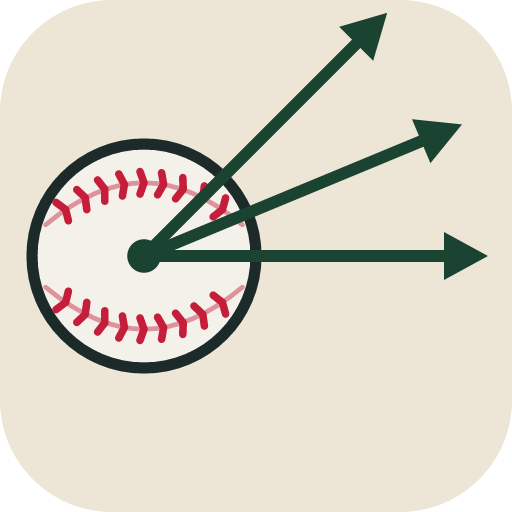
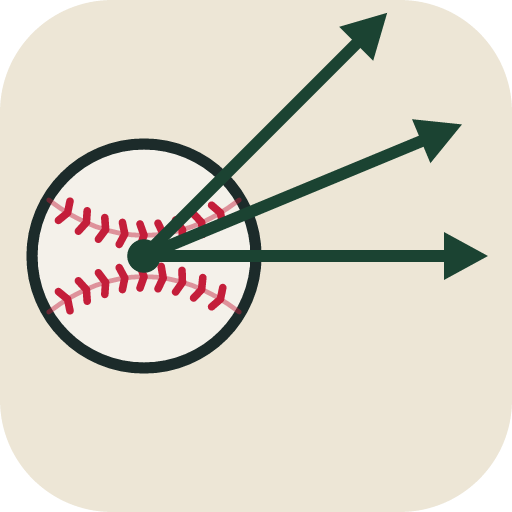
Update SVG and TypeScript files for WtbbMark branding
- Refactored SVG paths in icon.svg and WtbbMark.tsx to improve visual consistency and maintainability.
- Updated the baseball seam definitions in generate-wtbb-logo.mjs for better accuracy in seam curvature.
- Modified binary assets for wtbb-mark images to ensure they reflect the latest design changes.

These updates enhance the branding visuals and improve the overall quality of the logo assets in the application.

Changed region(s): [[0.0938, 0.3125, 0.4688, 0.6875]]

diff --git a/web/components/brand/WtbbMark.tsx b/web/components/brand/WtbbMark.tsx
@@ -23,26 +23,26 @@ export function WtbbMark({
       <title>{title}</title>
       {withPlate ? <rect width="128" height="128" rx="28" fill="#ede6d6" /> : null}
       <circle cx="36" cy="64" r="28" fill="#f4f1ea" stroke="currentColor" strokeWidth="2.8"/>
-  <path fill="none" stroke="#c41e3a" strokeWidth="1.2" strokeLinecap="round" opacity="0.45" d="M11.4 56.2C28.2 42.2, 43.8 42.2, 60.6 56.2"/>
-  <path fill="none" stroke="#c41e3a" strokeWidth="1.9" strokeLinecap="round" strokeLinejoin="round" d="M14.0 50.6L16.4 52.4L17.1 55.2"/>
-  <path fill="none" stroke="#c41e3a" strokeWidth="1.9" strokeLinecap="round" strokeLinejoin="round" d="M19.2 47.4L21.3 49.4L21.7 52.4"/>
-  <path fill="none" stroke="#c41e3a" strokeWidth="1.9" strokeLinecap="round" strokeLinejoin="round" d="M24.4 45.0L26.2 47.3L26.2 50.3"/>
-  <path fill="none" stroke="#c41e3a" strokeWidth="1.9" strokeLinecap="round" strokeLinejoin="round" d="M29.7 43.5L31.1 46.1L30.6 49.0"/>
-  <path fill="none" stroke="#c41e3a" strokeWidth="1.9" strokeLinecap="round" strokeLinejoin="round" d="M35.0 42.9L36.0 45.7L35.0 48.5"/>
-  <path fill="none" stroke="#c41e3a" strokeWidth="1.9" strokeLinecap="round" strokeLinejoin="round" d="M40.4 43.2L40.9 46.1L39.4 48.7"/>
-  <path fill="none" stroke="#c41e3a" strokeWidth="1.9" strokeLinecap="round" strokeLinejoin="round" d="M45.7 44.4L45.8 47.3L43.9 49.7"/>
-  <path fill="none" stroke="#c41e3a" strokeWidth="1.9" strokeLinecap="round" strokeLinejoin="round" d="M51.1 46.5L50.7 49.4L48.5 51.5"/>
-  <path fill="none" stroke="#c41e3a" strokeWidth="1.9" strokeLinecap="round" strokeLinejoin="round" d="M56.4 49.5L55.6 52.4L53.3 54.2"/>
-  <path fill="none" stroke="#c41e3a" strokeWidth="1.2" strokeLinecap="round" opacity="0.45" d="M11.4 71.8C28.2 85.8, 43.8 85.8, 60.6 71.8"/>
-  <path fill="none" stroke="#c41e3a" strokeWidth="1.9" strokeLinecap="round" strokeLinejoin="round" d="M17.1 72.8L16.4 75.6L14.0 77.4"/>
-  <path fill="none" stroke="#c41e3a" strokeWidth="1.9" strokeLinecap="round" strokeLinejoin="round" d="M21.7 75.6L21.3 78.6L19.2 80.6"/>
-  <path fill="none" stroke="#c41e3a" strokeWidth="1.9" strokeLinecap="round" strokeLinejoin="round" d="M26.2 77.7L26.2 80.7L24.4 83.0"/>
-  <path fill="none" stroke="#c41e3a" strokeWidth="1.9" strokeLinecap="round" strokeLinejoin="round" d="M30.6 79.0L31.1 81.9L29.7 84.5"/>
-  <path fill="none" stroke="#c41e3a" strokeWidth="1.9" strokeLinecap="round" strokeLinejoin="round" d="M35.0 79.5L36.0 82.3L35.0 85.1"/>
-  <path fill="none" stroke="#c41e3a" strokeWidth="1.9" strokeLinecap="round" strokeLinejoin="round" d="M39.4 79.3L40.9 81.9L40.4 84.8"/>
-  <path fill="none" stroke="#c41e3a" strokeWidth="1.9" strokeLinecap="round" strokeLinejoin="round" d="M43.9 78.3L45.8 80.7L45.7 83.6"/>
-  <path fill="none" stroke="#c41e3a" strokeWidth="1.9" strokeLinecap="round" strokeLinejoin="round" d="M48.5 76.5L50.7 78.6L51.1 81.5"/>
-  <path fill="none" stroke="#c41e3a" strokeWidth="1.9" strokeLinecap="round" strokeLinejoin="round" d="M53.3 73.8L55.6 75.6L56.4 78.5"/>
+  <path fill="none" stroke="#c41e3a" strokeWidth="1.2" strokeLinecap="round" opacity="0.45" d="M12.2 50.0C27.6 61.8, 44.4 61.8, 59.8 50.0"/>
+  <path fill="none" stroke="#c41e3a" strokeWidth="1.9" strokeLinecap="round" strokeLinejoin="round" d="M17.5 50.3L16.9 53.2L14.6 55.1"/>
+  <path fill="none" stroke="#c41e3a" strokeWidth="1.9" strokeLinecap="round" strokeLinejoin="round" d="M21.8 52.7L21.6 55.6L19.6 57.8"/>
+  <path fill="none" stroke="#c41e3a" strokeWidth="1.9" strokeLinecap="round" strokeLinejoin="round" d="M26.2 54.4L26.4 57.4L24.6 59.8"/>
+  <path fill="none" stroke="#c41e3a" strokeWidth="1.9" strokeLinecap="round" strokeLinejoin="round" d="M30.6 55.6L31.2 58.5L29.8 61.1"/>
+  <path fill="none" stroke="#c41e3a" strokeWidth="1.9" strokeLinecap="round" strokeLinejoin="round" d="M35.0 56.0L36.0 58.8L35.0 61.6"/>
+  <path fill="none" stroke="#c41e3a" strokeWidth="1.9" strokeLinecap="round" strokeLinejoin="round" d="M39.5 55.8L40.8 58.5L40.3 61.4"/>
+  <path fill="none" stroke="#c41e3a" strokeWidth="1.9" strokeLinecap="round" strokeLinejoin="round" d="M43.9 55.0L45.6 57.4L45.5 60.4"/>
+  <path fill="none" stroke="#c41e3a" strokeWidth="1.9" strokeLinecap="round" strokeLinejoin="round" d="M48.4 53.5L50.4 55.6L50.7 58.6"/>
+  <path fill="none" stroke="#c41e3a" strokeWidth="1.9" strokeLinecap="round" strokeLinejoin="round" d="M52.9 51.3L55.1 53.2L55.7 56.1"/>
+  <path fill="none" stroke="#c41e3a" strokeWidth="1.2" strokeLinecap="round" opacity="0.45" d="M12.2 78.0C27.6 66.2, 44.4 66.2, 59.8 78.0"/>
+  <path fill="none" stroke="#c41e3a" strokeWidth="1.9" strokeLinecap="round" strokeLinejoin="round" d="M14.6 72.9L16.9 74.8L17.5 77.7"/>
+  <path fill="none" stroke="#c41e3a" strokeWidth="1.9" strokeLinecap="round" strokeLinejoin="round" d="M19.6 70.2L21.6 72.4L21.8 75.3"/>
+  <path fill="none" stroke="#c41e3a" strokeWidth="1.9" strokeLinecap="round" strokeLinejoin="round" d="M24.6 68.2L26.4 70.6L26.2 73.6"/>
+  <path fill="none" stroke="#c41e3a" strokeWidth="1.9" strokeLinecap="round" strokeLinejoin="round" d="M29.8 66.9L31.2 69.5L30.6 72.4"/>
+  <path fill="none" stroke="#c41e3a" strokeWidth="1.9" strokeLinecap="round" strokeLinejoin="round" d="M35.0 66.4L36.0 69.2L35.0 72.0"/>
+  <path fill="none" stroke="#c41e3a" strokeWidth="1.9" strokeLinecap="round" strokeLinejoin="round" d="M40.3 66.6L40.8 69.5L39.5 72.2"/>
+  <path fill="none" stroke="#c41e3a" strokeWidth="1.9" strokeLinecap="round" strokeLinejoin="round" d="M45.5 67.6L45.6 70.6L43.9 73.0"/>
+  <path fill="none" stroke="#c41e3a" strokeWidth="1.9" strokeLinecap="round" strokeLinejoin="round" d="M50.7 69.4L50.4 72.4L48.4 74.5"/>
+  <path fill="none" stroke="#c41e3a" strokeWidth="1.9" strokeLinecap="round" strokeLinejoin="round" d="M55.7 71.9L55.1 74.8L52.9 76.7"/>
   <g>
     <path fill="none" stroke="#1b4332" strokeWidth="3" strokeLinecap="round" d="M40.0 64.0L111.5 64.0"/>
     <path fill="#1b4332" d="M111.0 70.0L122.0 64.0L111.0 58.0Z"/>